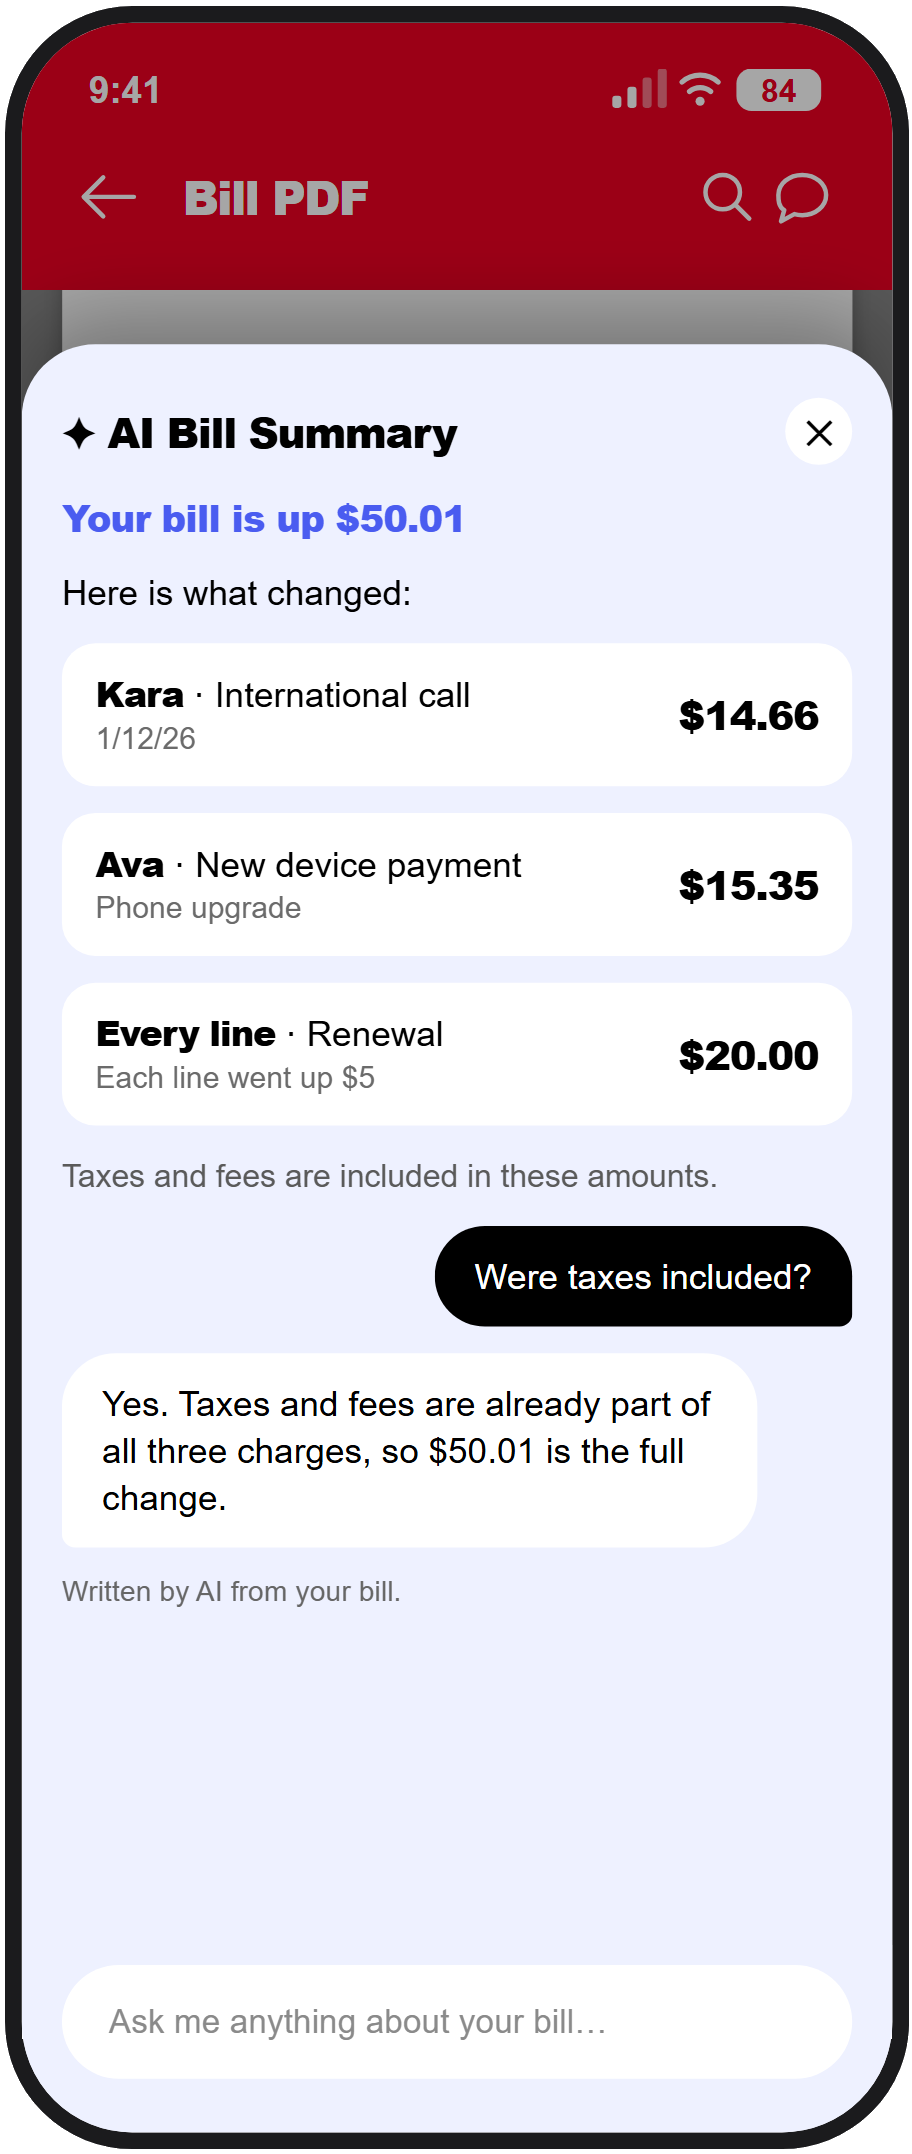
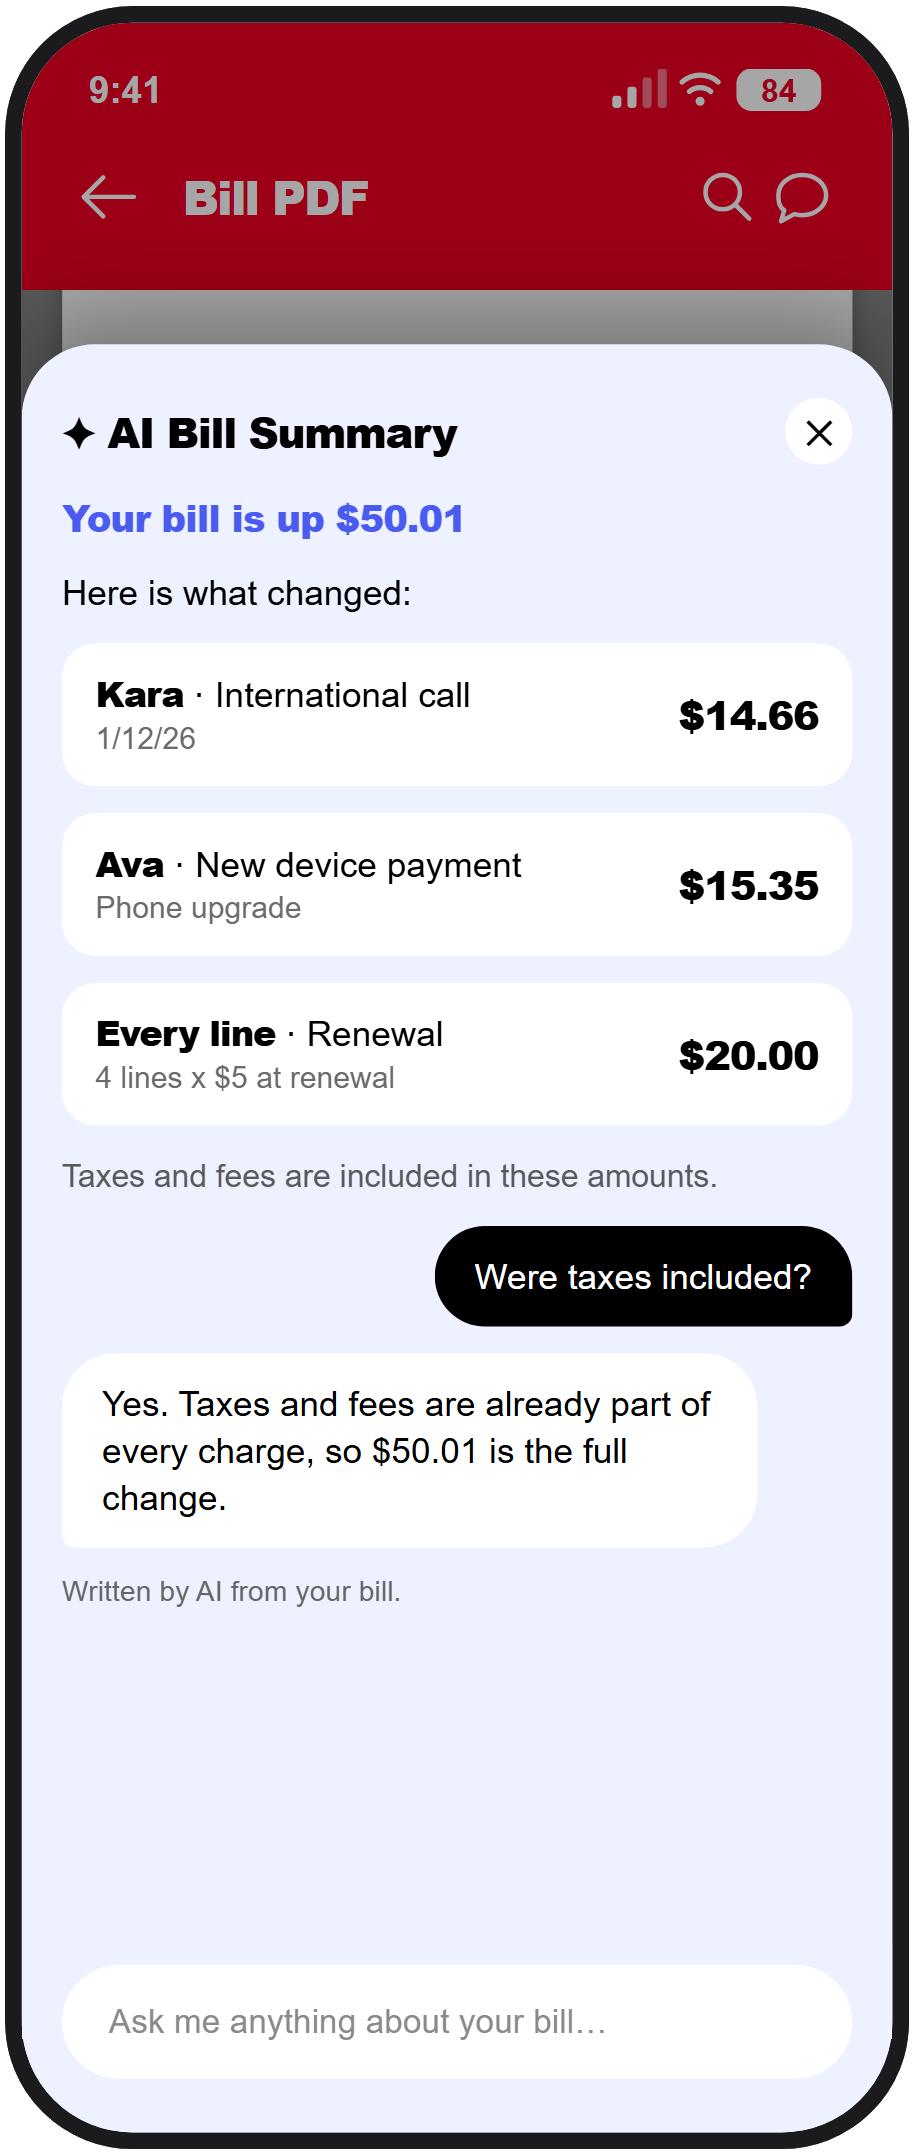
Tapping a line on the bill opens a per-line AI summary; breakdown text includes renewal
Copilot-Session: d03eeb52-1bb5-4adc-a6b2-1b01bb792acd

Changed region(s): [[0.1228, 0.6532, 0.7675, 0.6843], [0.1228, 0.4977, 0.3377, 0.5288], [0.3684, 0.4977, 0.4298, 0.5288]]

diff --git a/verizon-prototype.html b/verizon-prototype.html
@@ -72,7 +72,11 @@ html,body{margin:0;height:100%;background:linear-gradient(135deg,#fff3e8,#ffe2cc
 .phone .paper .snap.lines>div span{color:#4a5cf0;text-decoration:underline}
 .phone .sheet.ai{top:178px}
 .phone .sheet.ai div{line-height:14px}
-.phone .sheet .askin{margin-top:auto;background:#fff;border-radius:99px;padding:10px 14px;font-size:10px;color:#8a8a8a;font-weight:400}.phone .hl .vzmax,.phone .hl .vzmax b{font-weight:800}</style>
+.phone .scr.pdf .snap.lines .ln-row{cursor:pointer}.phone .scr.pdf .snap.lines .ln-row:hover{background:#f4f4f4}
+.phone .scr.pdf[data-sheet=line] .dim{opacity:1}.phone .scr.pdf[data-sheet=line] .pill{opacity:0}
+.phone .scr.pdf[data-sheet=line] .sheet.ln{transform:none}.phone .scr.pdf[data-sheet=line] .sheet.ai:not(.ln){transform:translateY(105%)}
+.phone .scr.pdf[data-sheet=ai] .sheet.ai.ln,.phone .scr.pdf[data-sheet=chat] .sheet.ai.ln{transform:translateY(105%)}
+.phone .sheet.ln{top:auto;bottom:0;padding-bottom:18px}.phone .sheet #lnbody{display:flex;flex-direction:column;gap:8px}.phone .sheet .askin{margin-top:auto;background:#fff;border-radius:99px;padding:10px 14px;font-size:10px;color:#8a8a8a;font-weight:400}.phone .hl .vzmax,.phone .hl .vzmax b{font-weight:800}</style>
 </head>
 <body>
 <div class="wrap">
@@ -93,7 +97,7 @@ html,body{margin:0;height:100%;background:linear-gradient(135deg,#fff3e8,#ffe2cc
         <div class="hd"><div class="st"><span>9:41</span><span>●</span></div><div class="nav" data-back><span>Bill Breakdown</span><em>⌕</em></div></div>
         <div class="body sc"><div class="card"><b>Your Current Balance</b><div class="lg">$282.82 <span class="up">&#8599; $50.01</span></div><div class="sub">Payment will process on <b>2/6/26</b></div><div class="brow"><span>Pay Bill</span><span>Manage Auto Pay</span></div></div>
           <div class="card"><b>Monthly Overview</b><div class="hist"><i style="height:55px"></i><i style="height:55px"></i><i style="height:55px"></i><i class="vzmax" style="height:62px"></i></div><div class="hl"><span>Oct<b>$232.81</b></span><span>Nov<b>$232.81</b></span><span>Dec<b>$232.81</b></span><span class="vzmax">Jan<b>$282.82</b></span></div></div>
-          <div class="aicard"><div class="t">&#10022; AI Bill Summary</div><p>Your bill went up because Kara made an international call and Ava upgraded her phone.</p><a>View full AI breakdown &rarr;</a></div>
+          <div class="aicard"><div class="t">&#10022; AI Bill Summary</div><p>Your bill went up because Kara made an international call, Ava upgraded her phone, and every line increased $5 at renewal.</p><a>View full AI breakdown &rarr;</a></div>
           <div class="faq">How can I lower my bill?<span>&#8964;</span></div><div class="faq">Why did my bill change?<span>&#8964;</span></div><div class="faq">What are surcharges &amp; fees?<span>&#8964;</span></div>
           <div class="card pie"><b>By Member</b><div class="mem" style="margin-top:8px"><div class="donut" role="img" aria-label="Bill share: Kara 28%, Ava 28%, Sarah 22%, Lizzy 22%"></div><ul><li style="--c:#ee0022">Kara 28%</li><li style="--c:#1a1a1a">Ava 28%</li><li style="--c:#8d9094">Sarah 22%</li><li style="--c:#ffbc3d">Lizzy 22%</li></ul></div></div>
           <div class="aicard"><div class="t">&#10022; Change by member</div><p>Sarah +$5.00 &middot; renewal<br>Kara +$19.66 &middot; call + renewal<br>Ava +$20.35 &middot; phone + renewal<br>Lizzy +$5.00 &middot; renewal</p><a id="g3" data-go="6">View full AI breakdown &rarr;</a></div></div>
@@ -106,11 +110,12 @@ html,body{margin:0;height:100%;background:linear-gradient(135deg,#fff3e8,#ffe2cc
           <div class="snap"><span class="ttl">Snapshot of your bill</span><div><span>Balance from last bill</span><span>$0.00</span></div><div><span>This month's charges</span><span>$282.82</span></div><div><b>Total due on Feb 6</b><b>$282.82</b></div></div></div>
           <div class="paper"><div class="meta"><div><div class="v">verizon</div><div class="addr" style="margin:10px 0 6px">Please see back for instructions on writing to us.</div></div><div><div class="acct"><b>Bill date</b> Jan 28, 2026<br><b>Account number</b> 123456789-00001</div><div class="due">Total Amount Due<b>$282.82</b></div></div></div><div class="bars">||| ||||| || ||||| |||| ||| ||||| ||</div></div>
           <div class="paper"><div class="meta"><div><div class="v">verizon</div></div><div><div class="acct"><b>Account:</b> 123456789-00001<br><b>Billing period:</b> Dec 29 - Jan 28</div></div></div><div class="due2">Your January bill is <b>$282.82</b></div>
-          <div class="snap lines"><span class="ttl">Bill summary by line</span><div><span>Sarah's Phone 3390</span><span>$63.20</span></div><div id="lizzy"><span>Kara's Phone 2417</span><span>$77.87</span></div><div><span>Ava's Phone 5833</span><span>$78.55</span></div><div><span>Lizzy's Phone 4036</span><span>$63.20</span></div></div></div></div>
+          <div class="snap lines"><span class="ttl">Bill summary by line</span><div class="ln-row" data-line="sarah"><span>Sarah's Phone 3390</span><span>$63.20</span></div><div id="lizzy" class="ln-row" data-line="kara"><span>Kara's Phone 2417</span><span>$77.87</span></div><div class="ln-row" data-line="ava"><span>Ava's Phone 5833</span><span>$78.55</span></div><div class="ln-row" data-line="lizzy"><span>Lizzy's Phone 4036</span><span>$63.20</span></div></div></div></div>
         <div class="tabs"><span><i></i>Me</span><span><i></i>Mobile</span><span><i></i>Home</span><span><i></i>Shop</span><span><i></i>Support</span></div>
         <div class="pill" id="g6" data-go="7" role="button" aria-label="AI Bill Summary"><small>NEW</small><i>✦</i></div>
         <div class="dim"></div>
-        <div class="sheet ai"><h4>&#10022; AI Bill Summary <i>&#10005;</i></h4><h5>Your bill is up $50.01</h5><div>Here is what changed:</div><div class="rsn"><span><b>Kara</b> &middot; International call<small>1/12/26</small></span><b>$14.66</b></div><div class="rsn"><span><b>Ava</b> &middot; New device payment<small>Phone upgrade</small></span><b>$15.35</b></div><div class="rsn"><span><b>Every line</b> &middot; Renewal<small>4 lines x $5 at renewal</small></span><b>$20.00</b></div><div class="fine">Taxes and fees are included in these amounts.</div><div class="bub me chatx">Were taxes included?</div><div class="bub bot chatx">Yes. Taxes and fees are already part of all three charges, so $50.01 is the full change.</div><div class="gen chatx">Written by AI from your bill.</div><div class="askin" id="g7" data-go="8">Ask me anything about your bill&hellip;</div></div>
+        <div class="sheet ai ln"><h4>&#10022; AI Bill Summary <i>&#10005;</i></h4><div id="lnbody"></div></div>
+        <div class="sheet ai"><h4>&#10022; AI Bill Summary <i>&#10005;</i></h4><h5>Your bill is up $50.01</h5><div>Here is what changed:</div><div class="rsn"><span><b>Kara</b> &middot; International call<small>1/12/26</small></span><b>$14.66</b></div><div class="rsn"><span><b>Ava</b> &middot; New device payment<small>Phone upgrade</small></span><b>$15.35</b></div><div class="rsn"><span><b>Every line</b> &middot; Renewal<small>4 lines x $5 at renewal</small></span><b>$20.00</b></div><div class="fine">Taxes and fees are included in these amounts.</div><div class="bub me chatx">Were taxes included?</div><div class="bub bot chatx">Yes. Taxes and fees are already part of every charge, so $50.01 is the full change.</div><div class="gen chatx">Written by AI from your bill.</div><div class="askin" id="g7" data-go="8">Ask me anything about your bill&hellip;</div></div>
       </section>
 
       <div class="tap" id="tap"></div>
@@ -128,8 +133,12 @@ const steps=[
  {s:3,scroll:9999,t:'g3',c:'<b>Bill Breakdown</b> scrolls from the trend to who drove the change.'},
  {s:6,sheet:'',scroll:9999,t:'g6',c:'<b>Bill PDF</b> stays familiar, with AI one tap away.'},
  {s:6,sheet:'ai',scroll:9999,t:'g7',c:'<b>AI Bill Summary</b> explains the whole change in plain language.'},
- {s:6,sheet:'chat',scroll:9999,c:'<b>Ask me anything</b> and the answer appears right in the same chat.'}
+ {s:6,sheet:'chat',scroll:9999,c:'<b>Ask me anything</b> and the answer appears right in the same chat.'},
+  {s:6,sheet:'',scroll:9999,t:'lizzy',c:'<b>Tap any line</b> on the bill to see what changed on it.'},
+  {s:6,sheet:'line',line:'kara',scroll:9999,c:'<b>Line summary</b> explains that one line in plain language.'}
 ];
+const LINES={sarah:['Sarah',[['Renewal','4 lines x $5 at renewal','$5.00']]],kara:['Kara',[['International call','1/12/26','$14.66'],['Renewal','Every line went up $5','$5.00']]],ava:['Ava',[['New device payment','Phone upgrade','$15.35'],['Renewal','Every line went up $5','$5.00']]],lizzy:['Lizzy',[['Renewal','Every line went up $5','$5.00']]]};
+function fillLine(key){const[n,rows]=LINES[key];let tot=0;const h=rows.map(r=>{tot+=parseFloat(r[2].slice(1));return '<div class="rsn"><span><b>'+r[0]+'</b><small>'+r[1]+'</small></span><b>'+r[2]+'</b></div>'}).join('');document.getElementById('lnbody').innerHTML='<h5>'+n+"'s line is up $"+tot.toFixed(2)+'</h5><div>Here is what changed:</div>'+h+'<div class="fine">Taxes and fees are included in these amounts.</div><div class="askin">Ask me anything about this line&hellip;</div>'}
 let i=0,playing=true,timer=null,token=0;
 steps.forEach((_,k)=>{const d=document.createElement('i');d.onclick=()=>{go(k,true)};dots.appendChild(d)});
 const wait=ms=>new Promise(r=>setTimeout(r,ms));
@@ -138,6 +147,7 @@ function show(k){
   const st=steps[k];
   document.querySelectorAll('.scr').forEach(s=>{const on=+s.dataset.n===st.s;s.classList.toggle('on',on);s.classList.toggle('off',!on&&+s.dataset.n<st.s)});
   if(st.s===6)pdf.dataset.sheet=st.sheet;const tb=document.querySelector('.scr[data-n="'+st.s+'"] .body');tb.style.scrollBehavior='auto';tb.scrollTop=st.sheet?(st.scroll>=9999?tb.scrollHeight:(st.scroll||0)):0;tb.style.scrollBehavior='';
+  if(st.line)fillLine(st.line);
   [...dots.children].forEach((d,n)=>d.classList.toggle('on',n===k));
   cap.innerHTML=st.c;
 }
@@ -163,6 +173,8 @@ document.getElementById('restart').onclick=()=>{playing=true;document.getElement
 document.getElementById('play').onclick=e=>{playing=!playing;e.target.textContent=playing?'Pause':'Play';if(playing)go(i)};
 // clicking the real controls in the phone also works
 phone.addEventListener('click',e=>{
+  const row=e.target.closest('.ln-row');if(row){const k=steps.findIndex(s=>s.line===row.dataset.line);if(k>=0){go(k,true)}else{token++;playing=false;fillLine(row.dataset.line);pdf.dataset.sheet='line'}return}
+  if(e.target.closest('.sheet h4 i')||e.target.closest('.dim')){token++;playing=false;pdf.dataset.sheet='';return}
   const g=e.target.closest('[data-go]');
   if(g){const n=+g.dataset.go;const sheet=n===7?'ai':n===8?'chat':'';const k=steps.findIndex(s=>s.s===(n>=6?6:n)&&(n<6||s.sheet===(n===6?'':sheet)));if(k>=0)go(k,true);return}
   if(e.target.closest('[data-back]')&&i>0)go(i-(steps[i].s===6&&steps[i].sheet?1:1),true);

diff --git a/verizon.html b/verizon.html
@@ -88,12 +88,12 @@
   </ul>
   <div class="walk"><div class="wstep reveal"><div class="wtxt"><span>01</span><h4>See who caused the change</h4><p>The Bill Breakdown opens with the trend and a short AI summary, then scrolls down to a per-member split and the biggest change.</p></div><div class="wph"><div class="screens"><figure><div class="phone sp"><div class="hd"><div class="st"><span>9:41</span><span>&#9679;&#9679;&#9679; &#9646;</span></div><div class="nav">&larr;<span>Bill Breakdown</span><em>&#8981;</em></div></div><div class="body"><div class="card"><b>Your Current Balance</b><div class="lg">$282.82 <span class="up">&#8599; $50.01</span></div><div class="sub">Payment will process on <b>2/6/26</b></div><div class="brow"><span>Pay Bill</span><span>Manage Auto Pay</span></div></div>
           <div class="card"><b>Monthly Overview</b><div class="hist"><i style="height:55px"></i><i style="height:55px"></i><i style="height:55px"></i><i class="vzmax" style="height:62px"></i></div><div class="hl"><span>Oct<b>$232.81</b></span><span>Nov<b>$232.81</b></span><span>Dec<b>$232.81</b></span><span class="vzmax">Jan<b>$282.82</b></span></div></div>
-          <div class="aicard"><div class="t">&#10022; AI Bill Summary</div><p>Your bill went up because Kara made an international call and Ava upgraded her phone.</p><a>View full AI breakdown &rarr;</a></div>
+          <div class="aicard"><div class="t">&#10022; AI Bill Summary</div><p>Your bill went up because Kara made an international call, Ava upgraded her phone, and every line increased $5 at renewal.</p><a>View full AI breakdown &rarr;</a></div>
           <div class="faq">How can I lower my bill?<span>&#8964;</span></div><div class="faq">Why did my bill change?<span>&#8964;</span></div><div class="faq">What are surcharges &amp; fees?<span>&#8964;</span></div>
           <div class="card pie"><b>By Member</b><div class="mem" style="margin-top:8px"><div class="donut" role="img" aria-label="Bill share: Kara 28%, Ava 28%, Sarah 22%, Lizzy 22%"></div><ul><li style="--c:#ee0022">Kara 28%</li><li style="--c:#1a1a1a">Ava 28%</li><li style="--c:#8d9094">Sarah 22%</li><li style="--c:#ffbc3d">Lizzy 22%</li></ul></div></div>
           <div class="aicard"><div class="t">&#10022; Change by member</div><p>Sarah +$5.00 &middot; renewal<br>Kara +$19.66 &middot; call + renewal<br>Ava +$20.35 &middot; phone + renewal<br>Lizzy +$5.00 &middot; renewal</p><a>View full AI breakdown &rarr;</a></div></div><div class="tabs"><span><i></i>Me</span><span><i></i>Mobile</span><span><i></i>Home</span><span><i></i>Shop</span><span><i></i>Support</span></div></div><figcaption>The trend and the AI summary, up top</figcaption></figure><figure><div class="phone sp"><div class="hd"><div class="st"><span>9:41</span><span>&#9679;&#9679;&#9679; &#9646;</span></div><div class="nav">&larr;<span>Bill Breakdown</span><em>&#8981;</em></div></div><div class="body"><div class="scrollup"><div class="card"><b>Your Current Balance</b><div class="lg">$282.82 <span class="up">&#8599; $50.01</span></div><div class="sub">Payment will process on <b>2/6/26</b></div><div class="brow"><span>Pay Bill</span><span>Manage Auto Pay</span></div></div>
           <div class="card"><b>Monthly Overview</b><div class="hist"><i style="height:55px"></i><i style="height:55px"></i><i style="height:55px"></i><i class="vzmax" style="height:62px"></i></div><div class="hl"><span>Oct<b>$232.81</b></span><span>Nov<b>$232.81</b></span><span>Dec<b>$232.81</b></span><span class="vzmax">Jan<b>$282.82</b></span></div></div>
-          <div class="aicard"><div class="t">&#10022; AI Bill Summary</div><p>Your bill went up because Kara made an international call and Ava upgraded her phone.</p><a>View full AI breakdown &rarr;</a></div>
+          <div class="aicard"><div class="t">&#10022; AI Bill Summary</div><p>Your bill went up because Kara made an international call, Ava upgraded her phone, and every line increased $5 at renewal.</p><a>View full AI breakdown &rarr;</a></div>
           <div class="faq">How can I lower my bill?<span>&#8964;</span></div><div class="faq">Why did my bill change?<span>&#8964;</span></div><div class="faq">What are surcharges &amp; fees?<span>&#8964;</span></div>
           <div class="card pie"><b>By Member</b><div class="mem" style="margin-top:8px"><div class="donut" role="img" aria-label="Bill share: Kara 28%, Ava 28%, Sarah 22%, Lizzy 22%"></div><ul><li style="--c:#ee0022">Kara 28%</li><li style="--c:#1a1a1a">Ava 28%</li><li style="--c:#8d9094">Sarah 22%</li><li style="--c:#ffbc3d">Lizzy 22%</li></ul></div></div>
           <div class="aicard"><div class="t">&#10022; Change by member</div><p>Sarah +$5.00 &middot; renewal<br>Kara +$19.66 &middot; call + renewal<br>Ava +$20.35 &middot; phone + renewal<br>Lizzy +$5.00 &middot; renewal</p><a>View full AI breakdown &rarr;</a></div></div></div><div class="tabs"><span><i></i>Me</span><span><i></i>Mobile</span><span><i></i>Home</span><span><i></i>Shop</span><span><i></i>Support</span></div></div><figcaption>Who drove the change, further down</figcaption></figure></div></div></div><div class="wstep reveal"><div class="wtxt"><span>02</span><h4>Ask about any charge</h4><p>The familiar PDF stays. One tap on the sparkle opens the AI Bill Summary, which explains why the bill changed in plain language. You can then ask anything about it.</p></div><div class="wph"><div class="screens"><figure><div class="phone sp"><div class="hd"><div class="st"><span>9:41</span><span>&#9679;&#9679;&#9679; &#9646;</span></div><div class="nav">&larr;<span>Bill PDF</span><em>&#8981;</em></div></div><div class="body" style="background:#868686"><div class="paper"><div class="meta"><div><div class="v">verizon</div><div class="addr">SARAH M. LEE<br>123 MAPLE AVE<br>ANYTOWN, IN 46000</div></div><div><div class="acct"><b>Account:</b> 123456789-00001<br><b>Invoice:</b> 1234567890<br><b>Billing period:</b> Dec 29 - Jan 28</div><div class="q"><b>Questions about your bill?</b><br>verizon.com/support<br>800-922-0204</div></div></div>
@@ -104,7 +104,7 @@
           <div class="snap"><span class="ttl">Snapshot of your bill</span><div><span>Balance from last bill</span><span>$0.00</span></div><div><span>This month's charges</span><span>$282.82</span></div><div><b>Total due on Feb 6</b><b>$282.82</b></div></div></div>
           <div class="paper"><div class="meta"><div><div class="v">verizon</div><div class="addr" style="margin:10px 0 6px">Please see back for instructions on writing to us.</div></div><div><div class="acct"><b>Bill date</b> Jan 28, 2026<br><b>Account number</b> 123456789-00001</div><div class="due">Total Amount Due<b>$282.82</b></div></div></div><div class="bars">||| ||||| || ||||| |||| ||| ||||| ||</div></div>
           <div class="paper"><div class="meta"><div><div class="v">verizon</div></div><div><div class="acct"><b>Account:</b> 123456789-00001<br><b>Billing period:</b> Dec 29 - Jan 28</div></div></div><div class="due2">Your January bill is <b>$282.82</b></div>
-          <div class="snap lines"><span class="ttl">Bill summary by line</span><div><span>Sarah's Phone 3390</span><span>$63.20</span></div><div><span>Kara's Phone 2417</span><span>$77.87</span></div><div><span>Ava's Phone 5833</span><span>$78.55</span></div><div><span>Lizzy's Phone 4036</span><span>$63.20</span></div></div></div></div><div class="tabs"><span><i></i>Me</span><span><i></i>Mobile</span><span><i></i>Home</span><span><i></i>Shop</span><span><i></i>Support</span></div><div class="dim" style="opacity:1"></div><div class="sheet ai chatted"><h4>&#10022; AI Bill Summary <i>&#10005;</i></h4><h5>Your bill is up $50.01</h5><div>Here is what changed:</div><div class="rsn"><span><b>Kara</b> &middot; International call<small>1/12/26</small></span><b>$14.66</b></div><div class="rsn"><span><b>Ava</b> &middot; New device payment<small>Phone upgrade</small></span><b>$15.35</b></div><div class="rsn"><span><b>Every line</b> &middot; Renewal<small>4 lines x $5 at renewal</small></span><b>$20.00</b></div><div class="fine">Taxes and fees are included in these amounts.</div><div class="bub me chatx">Were taxes included?</div><div class="bub bot chatx">Yes. Taxes and fees are already part of all three charges, so $50.01 is the full change.</div><div class="gen chatx">Written by AI from your bill.</div><div class="askin">Ask me anything about your bill&hellip;</div></div></div><figcaption>The AI explains the line, and you can keep asking</figcaption></figure></div></div></div></div>
+          <div class="snap lines"><span class="ttl">Bill summary by line</span><div><span>Sarah's Phone 3390</span><span>$63.20</span></div><div><span>Kara's Phone 2417</span><span>$77.87</span></div><div><span>Ava's Phone 5833</span><span>$78.55</span></div><div><span>Lizzy's Phone 4036</span><span>$63.20</span></div></div></div></div><div class="tabs"><span><i></i>Me</span><span><i></i>Mobile</span><span><i></i>Home</span><span><i></i>Shop</span><span><i></i>Support</span></div><div class="dim" style="opacity:1"></div><div class="sheet ai chatted"><h4>&#10022; AI Bill Summary <i>&#10005;</i></h4><h5>Your bill is up $50.01</h5><div>Here is what changed:</div><div class="rsn"><span><b>Kara</b> &middot; International call<small>1/12/26</small></span><b>$14.66</b></div><div class="rsn"><span><b>Ava</b> &middot; New device payment<small>Phone upgrade</small></span><b>$15.35</b></div><div class="rsn"><span><b>Every line</b> &middot; Renewal<small>4 lines x $5 at renewal</small></span><b>$20.00</b></div><div class="fine">Taxes and fees are included in these amounts.</div><div class="bub me chatx">Were taxes included?</div><div class="bub bot chatx">Yes. Taxes and fees are already part of every charge, so $50.01 is the full change.</div><div class="gen chatx">Written by AI from your bill.</div><div class="askin">Ask me anything about your bill&hellip;</div></div></div><figcaption>The AI explains the line, and you can keep asking</figcaption></figure></div></div></div></div>
   <p class="reveal"><a class="figma-link" href="verizon-prototype.html" target="_blank" rel="noopener">Try the interactive prototype &nearr;</a></p>
 
   <h2 class="reveal">Impact &amp; learnings</h2>
